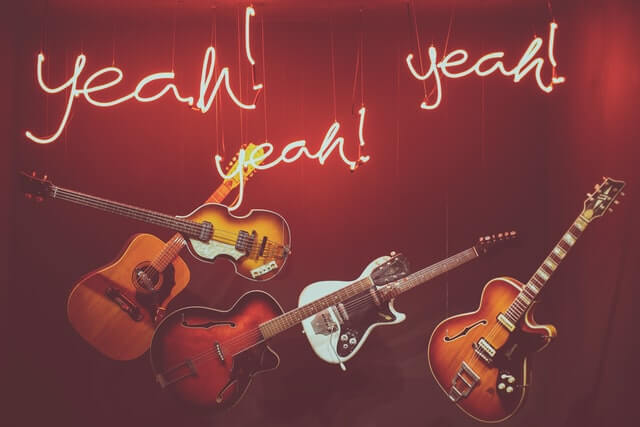
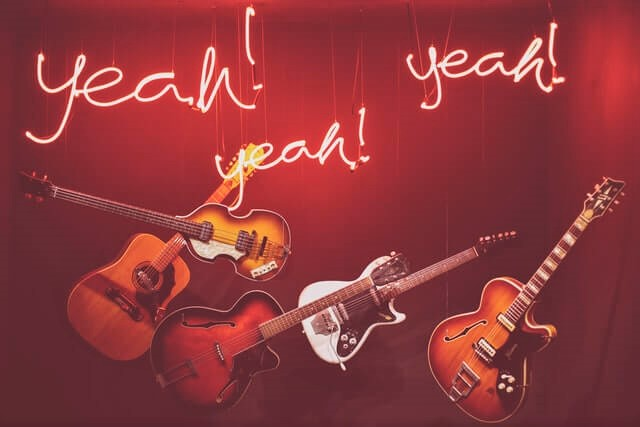
update rock thumbnail

diff --git a/src/pages/search.js b/src/pages/search.js
@@ -9,7 +9,7 @@ const categories = [
   { title: "electronic", color: "58, 60, 63" },
   { title: "edm", color: "134,49,172" },
   { title: "house", color: "46, 102, 174" },
-  { title: "rock", color: "160, 59, 58" },
+  { title: "rock", color: "147, 46, 53" },
   { title: "industrial", color: "146,67,6" },
   { title: "techno", color: "8, 77, 146" },
   { title: "hip hop", color: "182, 80, 94" },
